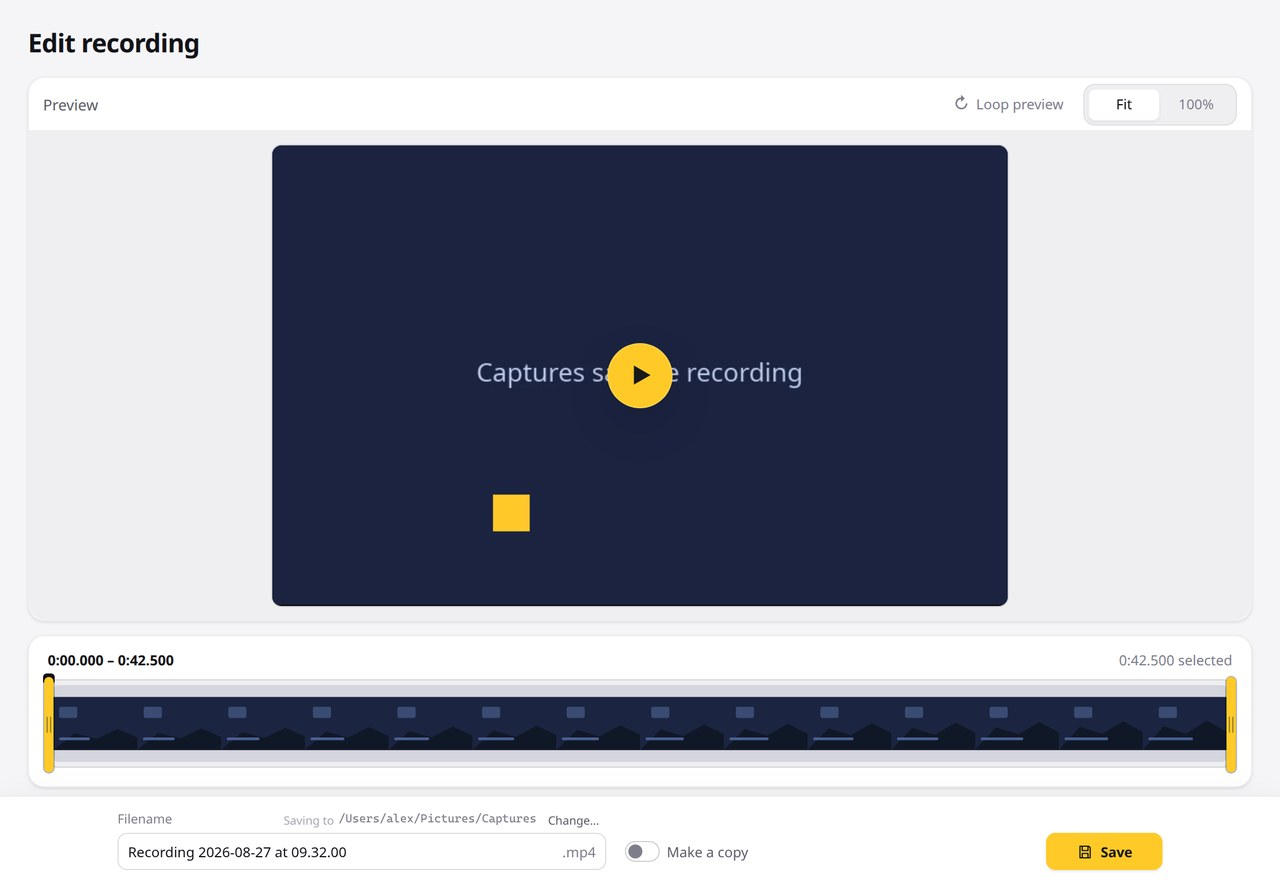
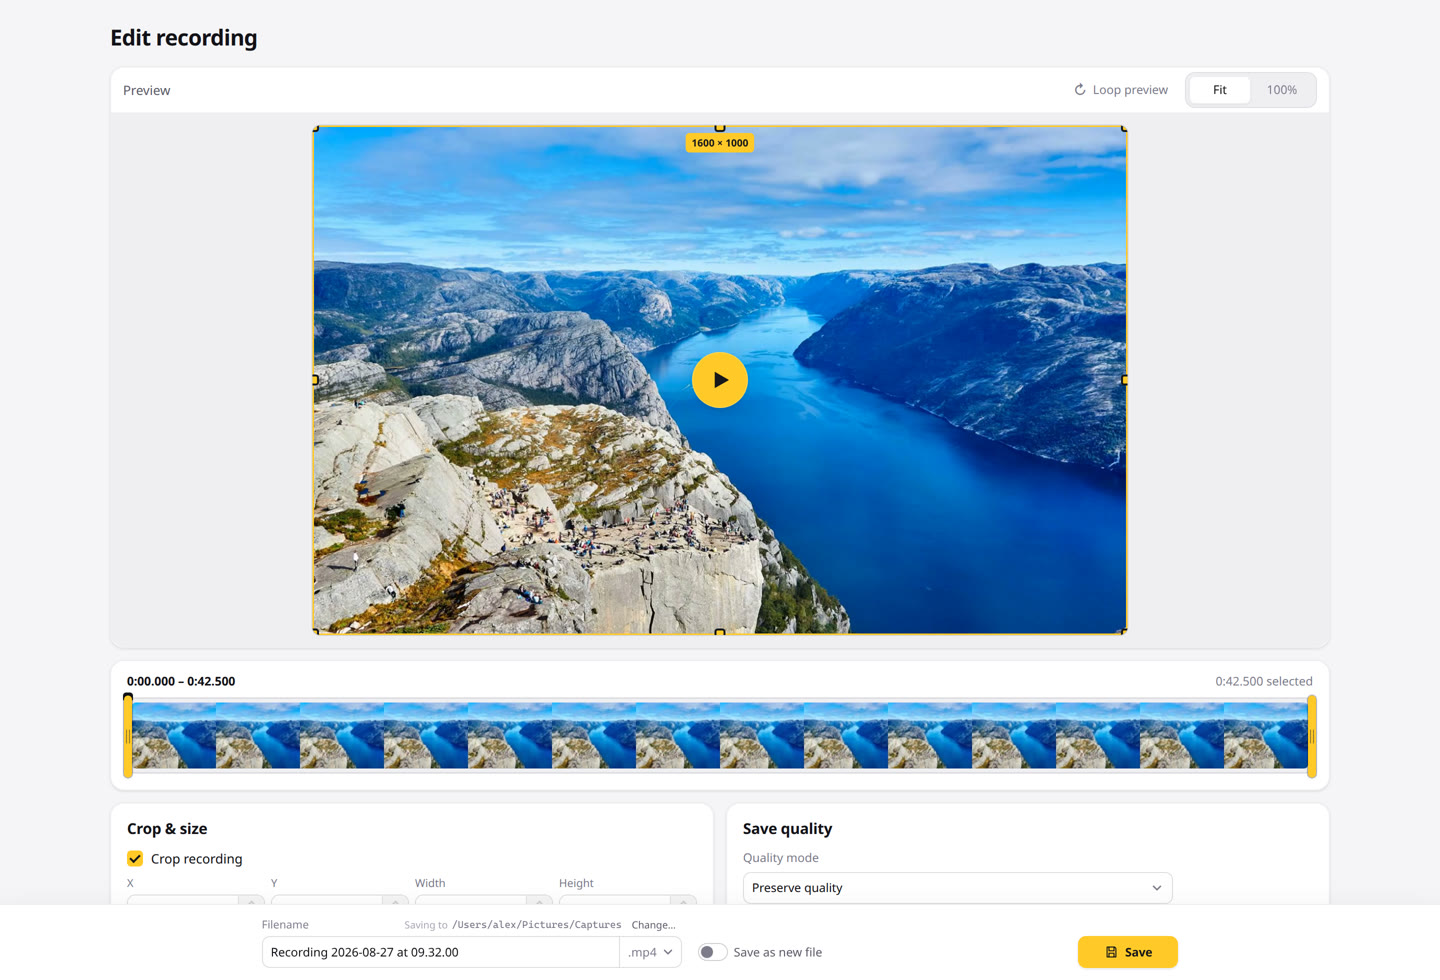
Refresh product screenshots with a real landscape and current UI.
Replace the illustrated desktop stills with captures of the live design harness over a photograph. The first shot now shows a drawn region box, the screenshot editor includes text and arrows on an expanded canvas, and the other stills match recent editor and preferences chrome.

diff --git a/apps/web/src/productShots.ts b/apps/web/src/productShots.ts
@@ -7,17 +7,17 @@ export const PRODUCT_SHOTS = [
   {
     id: "capture-selection",
     file: "capture-selection.jpg",
-    width: 1400,
-    height: 875,
-    title: "Capture from the desktop",
-    description: "One compact menu for screenshots and recordings, then a region, window, or full display.",
-    alt: "The Captures menu over a frozen desktop, with screenshot and recording controls in one bar",
+    width: 1600,
+    height: 1000,
+    title: "Draw a region",
+    description: "Click and drag a box on the desktop, or switch to a window or full display.",
+    alt: "Captures region capture over a landscape, with a highlighted box, corner handles, and the capture menu",
   },
   {
     id: "capture-controls",
     file: "capture-controls.jpg",
     width: 1200,
-    height: 309,
+    height: 228,
     title: "Everything in reach",
     description: "Capture type and target controls sit together in one compact menu.",
     alt: "Close-up of the Captures capture menu with screenshot and recording options",
@@ -25,20 +25,20 @@ export const PRODUCT_SHOTS = [
   {
     id: "screenshot-editor",
     file: "screenshot-editor.jpg",
-    width: 1280,
-    height: 840,
+    width: 1440,
+    height: 900,
     title: "Edit screenshots",
-    description: "Annotations, layers, canvas controls, and flexible export options.",
-    alt: "Captures screenshot editor with annotation tools, layers, and export controls",
+    description: "Text, arrows, and other annotations, plus canvas controls and flexible export.",
+    alt: "Captures screenshot editor annotating a landscape with text labels, arrows, and an expanded canvas",
   },
   {
     id: "video-editor",
     file: "video-editor.jpg",
-    width: 1280,
-    height: 884,
+    width: 1440,
+    height: 980,
     title: "Polish recordings",
     description: "Preview, trim, crop, and export video with size and audio controls.",
-    alt: "Captures video editor with a preview, trimming timeline, and save controls",
+    alt: "Captures video editor with a landscape preview, crop handles, trimming timeline, and save controls",
   },
   {
     id: "preferences",

diff --git a/README.md b/README.md
@@ -7,9 +7,9 @@ Captures is a cross-platform screen capture utility built for quick captures and
 
 ## A quick look
 
-Open one compact menu to switch between screenshots and recordings, then choose a region, window, or full display.
+Click and drag a region like other screenshot tools, or pick a window or full display from one compact menu.
 
-![The Captures menu over a frozen desktop, with screenshot and recording controls in one bar](docs/images/capture-selection.jpg)
+![Captures region capture over a landscape, with a highlighted box, corner handles, and the capture menu](docs/images/capture-selection.jpg)
 
 <p align="center">
   <img src="docs/images/capture-controls.jpg" alt="Close-up of the Captures capture menu with screenshot and recording options" width="728">
@@ -20,12 +20,12 @@ Open one compact menu to switch between screenshots and recordings, then choose 
 <table>
   <tr>
     <td width="50%">
-      <img src="docs/images/screenshot-editor.jpg" alt="Captures screenshot editor with annotation tools, layers, and export controls" width="100%">
+      <img src="docs/images/screenshot-editor.jpg" alt="Captures screenshot editor annotating a landscape with text labels, arrows, and an expanded canvas" width="100%">
       <br>
-      <sub><strong>Edit screenshots</strong> with annotations, layers, canvas controls, and flexible export options.</sub>
+      <sub><strong>Edit screenshots</strong> with text, arrows, canvas controls, and flexible export options.</sub>
     </td>
     <td width="50%">
-      <img src="docs/images/video-editor.jpg" alt="Captures video editor with a preview, trimming timeline, and save controls" width="100%">
+      <img src="docs/images/video-editor.jpg" alt="Captures video editor with a landscape preview, crop handles, trimming timeline, and save controls" width="100%">
       <br>
       <sub><strong>Polish recordings</strong> with preview, trimming, crop and size controls, and export options.</sub>
     </td>
